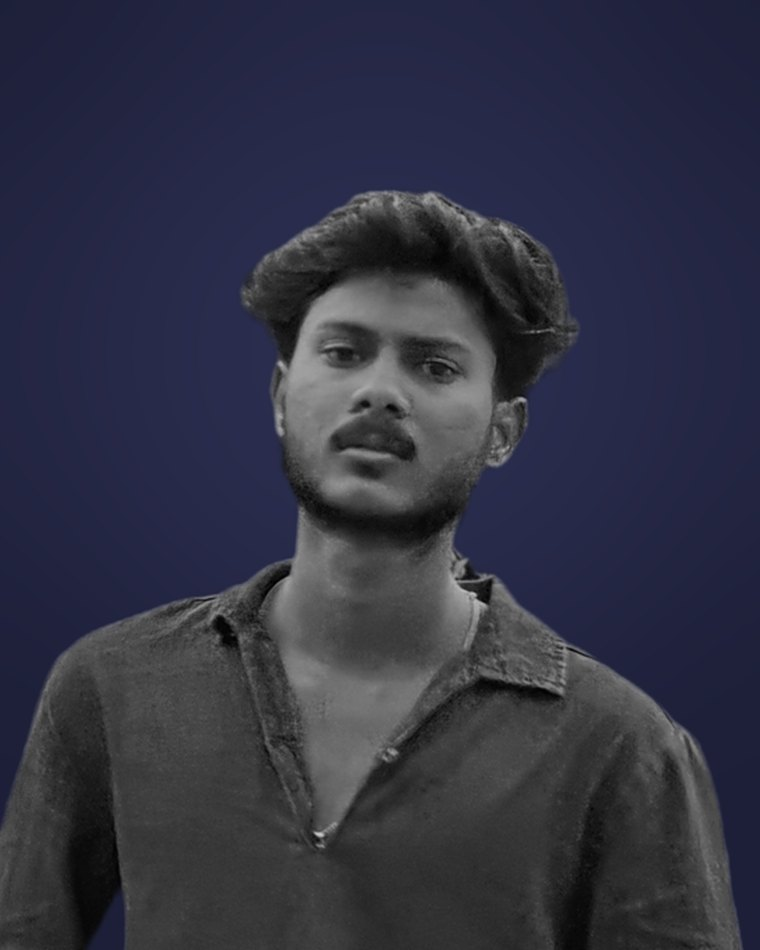
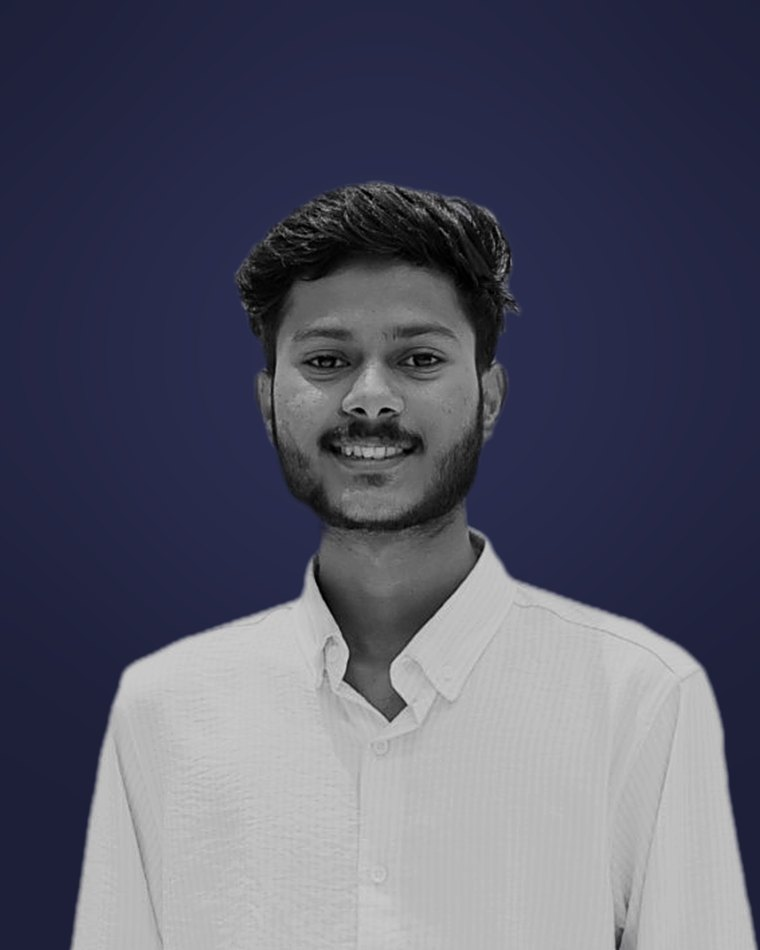
Use new black and white photo for Suhail's team card

diff --git a/scripts/team_photo.py b/scripts/team_photo.py
@@ -29,7 +29,7 @@ LIGHT = (58, 62, 104)
 # the chin and the face centre. Faces are scaled so eye-to-chin matches,
 # times scale where a face still reads smaller than the others.
 PEOPLE = {
-    "suhail": dict(file="suhail.heic", eye=1130, chin=1250, cx=650, scale=1.0),
+    "suhail": dict(file="suhail-2.jpg", eye=1037, chin=1162, cx=730, scale=1.0),
     "sudhir": dict(file="sudhir.jpg", eye=890, chin=998, cx=846, scale=1.0),
     "ajay": dict(file="ajay.heic", eye=1030, chin=1165, cx=1092, scale=1.0),
     "shyan": dict(file="shyan-3.jpg", eye=372, chin=498, cx=563, scale=1.0),
